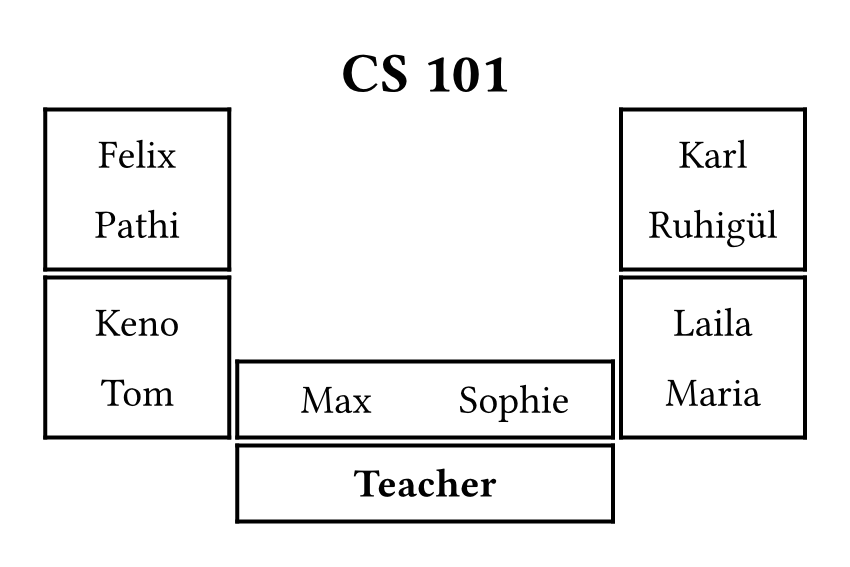
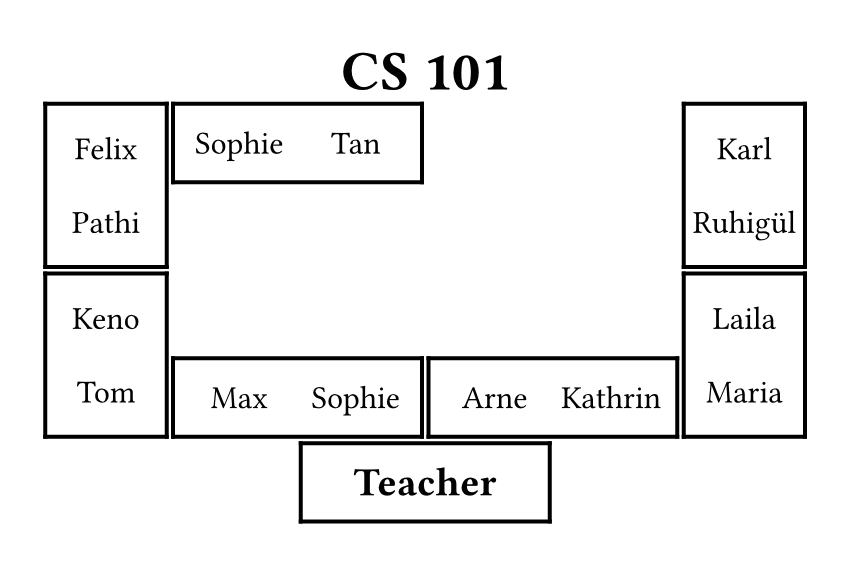
Updated free examples

Changed region(s): [[0.0306, 0.0899, 0.9482, 0.9295], [0.3976, 0.2399, 0.4588, 0.2698]]

diff --git a/README.md b/README.md
@@ -35,10 +35,10 @@ Easily draw and style seating charts.
 
 ### Example for complex charts
 ```typst
-#free-seating-chart(columns: 4, rows: 5, title: "CS 101",
-    vtable[Felix][Pathi], empty(2, 3), vtable[Karl][Ruhigül],
-    vtable[Keno][Tom], vtable[Laila][Maria], htable[Max][Sophie],
-    empty(), htable(span: 2)[*Teacher*],
+#free-seating-chart(columns: 6, rows: 5, title: "CS 101", font-size: 16pt,
+    vtable[Felix][Pathi], htable[Sophie][Tan], empty(2), vtable[Karl][Ruhigül],
+    empty(4, 2), vtable[Keno][Tom], vtable[Laila][Maria], htable[Max][Sophie],
+    htable[Arne][Kathrin], empty(2), htable(span: 2, text(size: 20pt)[*Teacher*]),
 )
 ```
 
